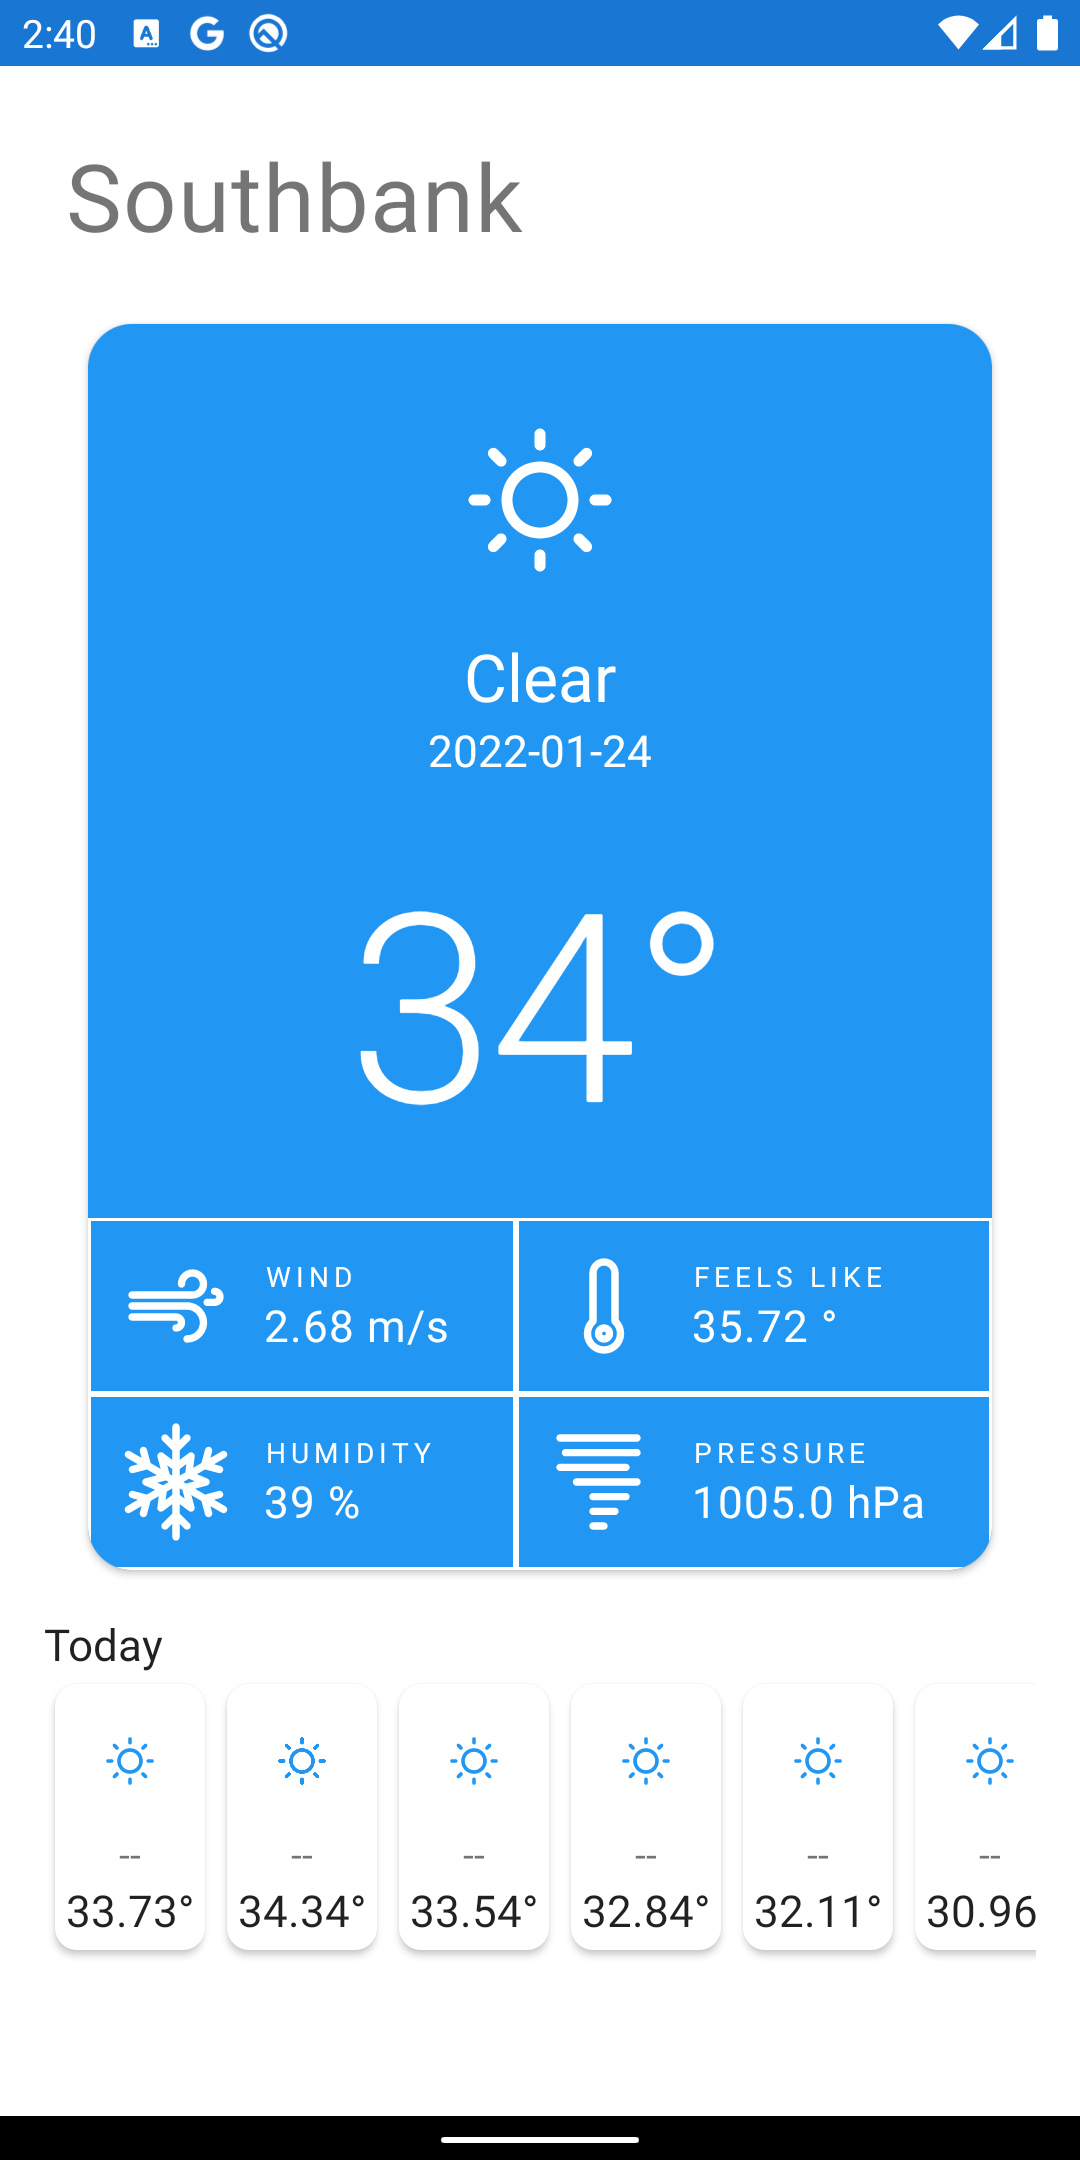
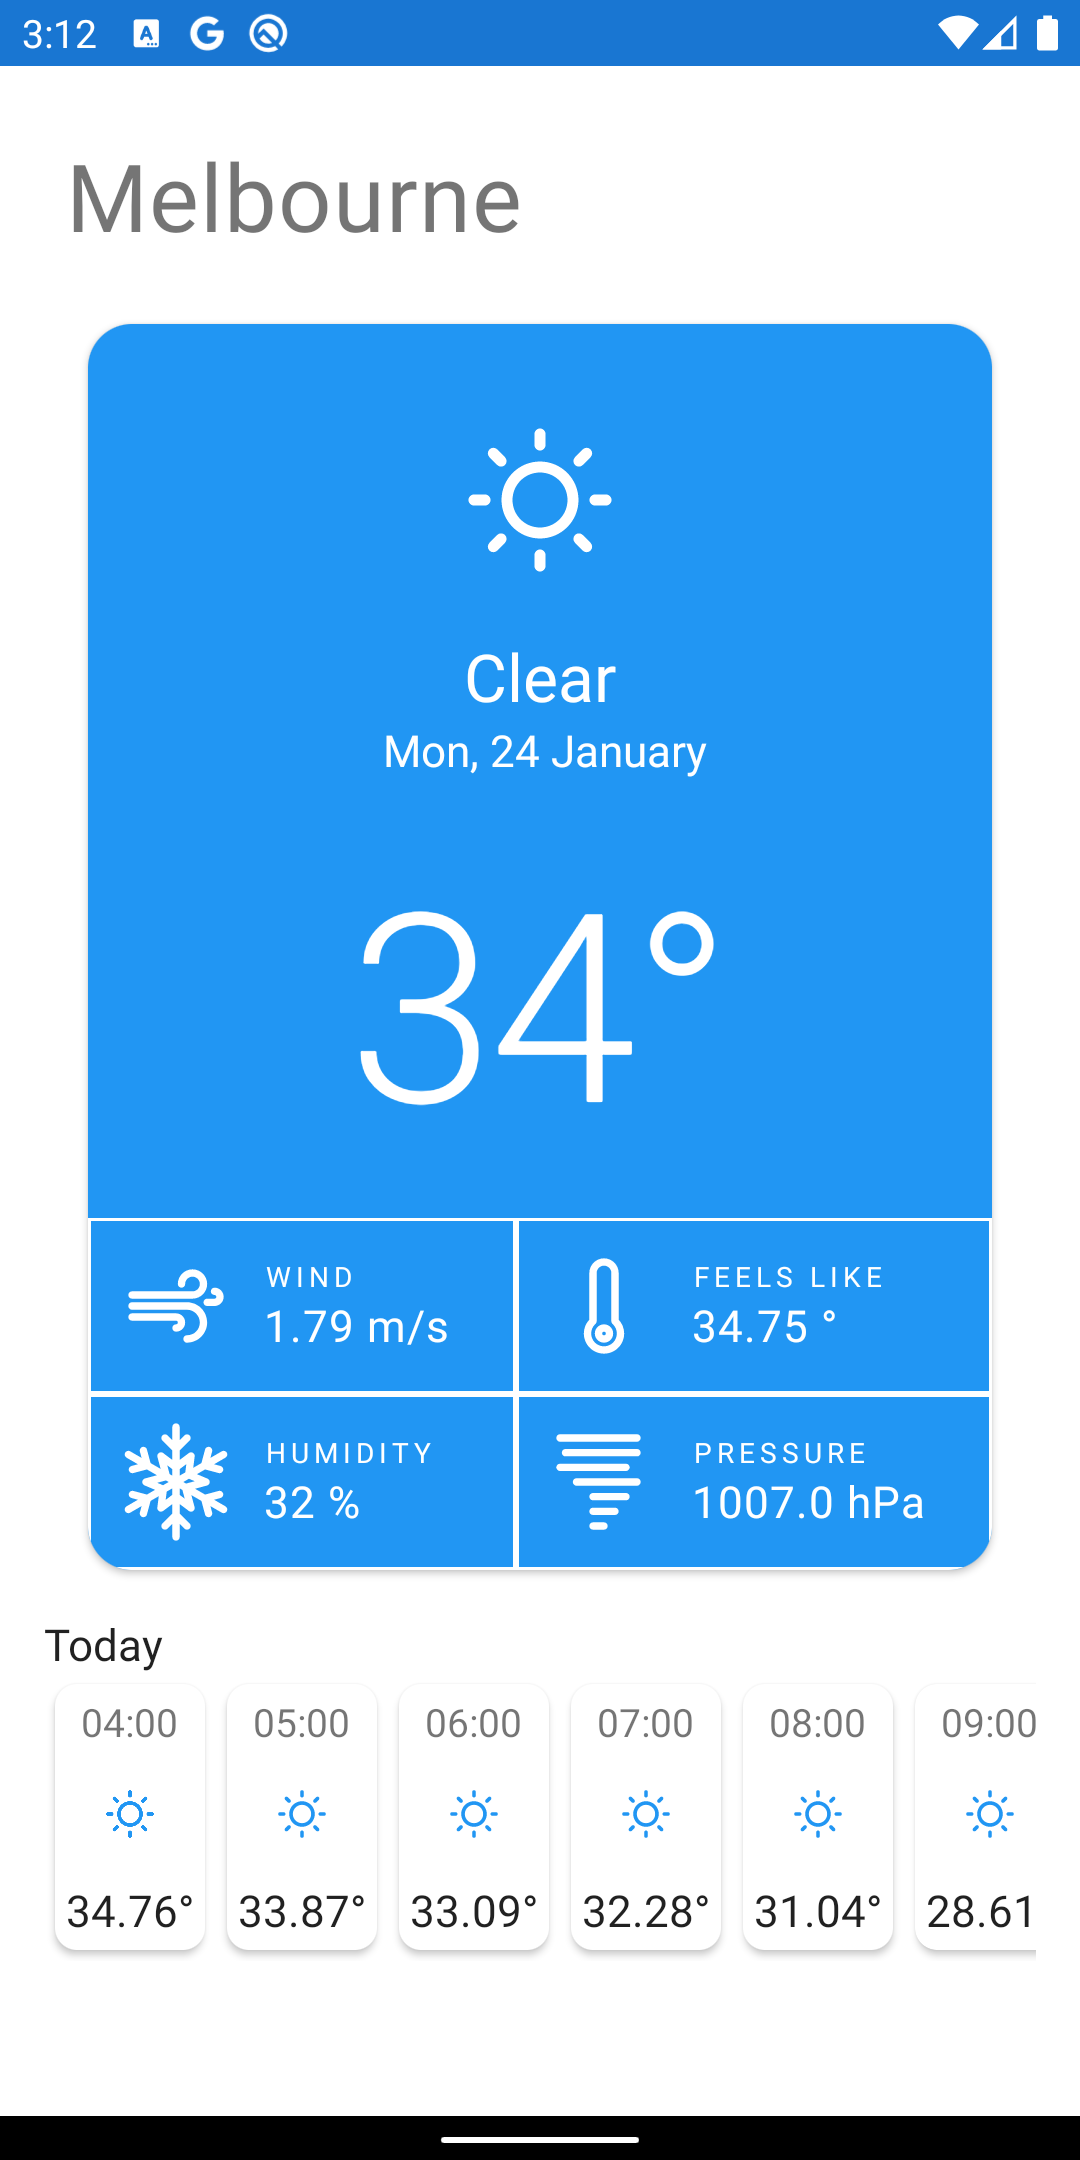
Fix date time formatting

diff --git a/app/src/main/kotlin/com/example/weather/WeatherActivity.kt b/app/src/main/kotlin/com/example/weather/WeatherActivity.kt
@@ -63,6 +63,8 @@ class WeatherActivity : AppCompatActivity(), CoroutineScope {
 
   private val webService: WeatherWebService = retrofit.create()
 
+  private val dateTimeFormatter = DateTimeFormatter.ofPattern(" E',' dd MMMM")
+
   override val coroutineContext: CoroutineContext = Dispatchers.IO + SupervisorJob()
 
   override fun onCreate(savedInstanceState: Bundle?) {
@@ -80,17 +82,16 @@ class WeatherActivity : AppCompatActivity(), CoroutineScope {
         progressBar.isVisible = true
       }
 
-      // TODO: Get user's location
       // TODO: Handle network failure
       val currentWeatherResponse: CurrentWeatherResponse =
+        // TODO: Get user's location
         webService.getCurrentWeatherForLocation("-37.8197304", "144.9516833")
 
       val condition: WeatherCondition = currentWeatherResponse.weather.first()
       val locationName: String = currentWeatherResponse.name
       val conditionIcon: Drawable = getIcon(this@WeatherActivity, condition.id)
       val conditionTitle: String = condition.main
-      // TODO: Use the correct date format
-      val conditionDate: String = LocalDateTime.now().format(DateTimeFormatter.ISO_LOCAL_DATE)
+      val conditionDate: String = LocalDateTime.now().format(dateTimeFormatter)
       val conditionTemp: String = "${currentWeatherResponse.main.temp.toInt()}°"
       val windSpeedText = "${currentWeatherResponse.wind.speed} m/s"
       val feelsLikeText = "${currentWeatherResponse.main.feels_like} °"
@@ -114,7 +115,9 @@ class WeatherActivity : AppCompatActivity(), CoroutineScope {
         pressureTextView.text = pressureText
       }
 
+      // TODO: Handle network failure
       val forecastResponse: HourlyForecastResponse =
+        // TODO: Get user's location
         webService.getHourlyForecastForLocation("-37.8197304", "144.9516833")
 
       withContext(Dispatchers.Main) {

diff --git a/app/src/main/kotlin/com/example/weather/WeatherArrayAdapter.kt b/app/src/main/kotlin/com/example/weather/WeatherArrayAdapter.kt
@@ -11,12 +11,15 @@ import androidx.recyclerview.widget.RecyclerView.ViewHolder
 import com.example.weather.HourlyForecastResponse.HourlyForecast
 import com.example.weather.WeatherActivity.Companion.getIcon
 import com.example.weather.WeatherArrayAdapter.WeatherAdapterViewHolder
+import java.time.Instant
+import java.time.LocalDateTime
+import java.time.ZoneOffset.UTC
 import java.time.format.DateTimeFormatter
 
 class WeatherArrayAdapter(private val forecasts: List<HourlyForecast>) :
   RecyclerView.Adapter<WeatherAdapterViewHolder>() {
 
-  private val formatter: DateTimeFormatter = DateTimeFormatter.ISO_LOCAL_DATE
+  private val formatter: DateTimeFormatter = DateTimeFormatter.ofPattern("HH:mm")
 
   override fun onCreateViewHolder(parent: ViewGroup, viewType: Int): WeatherAdapterViewHolder =
     WeatherAdapterViewHolder(LayoutInflater.from(parent.context).inflate(R.layout.weather_forcast_item, parent, false))
@@ -28,14 +31,13 @@ class WeatherArrayAdapter(private val forecasts: List<HourlyForecast>) :
 
   override fun getItemCount(): Int = forecasts.size
 
-  class WeatherAdapterViewHolder(val view: View) : ViewHolder(view) {
+  inner class WeatherAdapterViewHolder(val view: View) : ViewHolder(view) {
     private val timeTextView: TextView = view.findViewById(R.id.weather_item_time)
     private val iconView: ImageView = view.findViewById(R.id.weather_item_icon)
     private val tempTextView: TextView = view.findViewById(R.id.weather_item_temp)
 
     fun display(forecast: HourlyForecast) {
-      // TODO: Parse this datetime
-      timeTextView.text = "--"
+      timeTextView.text = formatter.format(LocalDateTime.ofInstant(Instant.ofEpochSecond(forecast.dt), UTC))
       val icon: Drawable = getIcon(view.context, forecast.weather.first().id)
       iconView.setImageDrawable(icon)
       tempTextView.text = "${forecast.temp}°"
